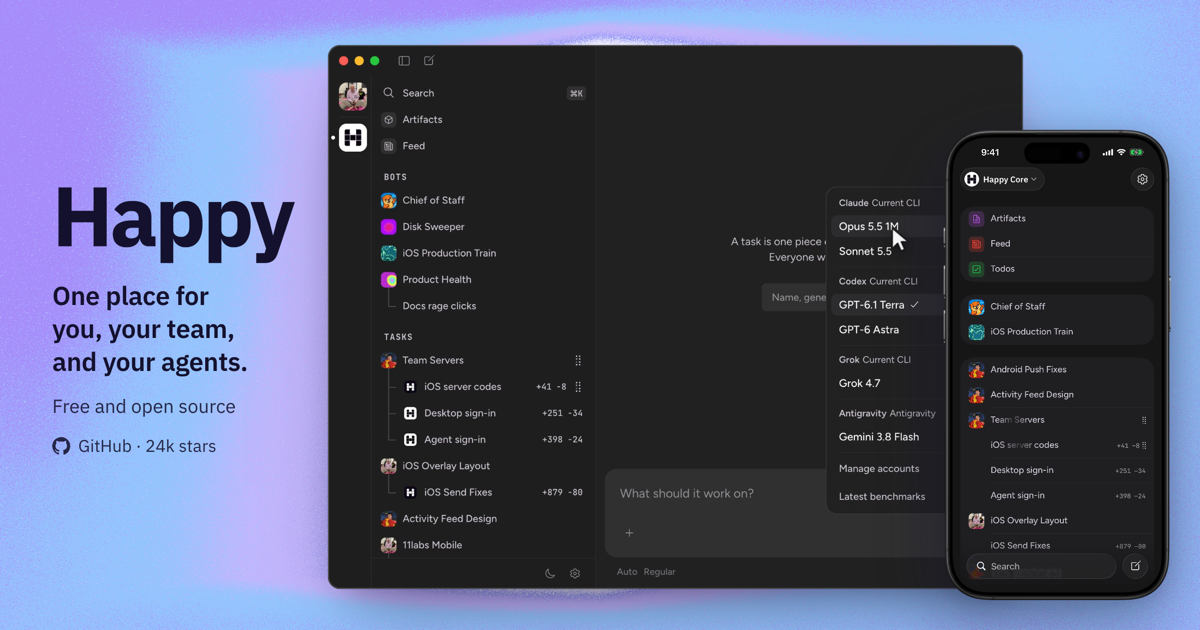
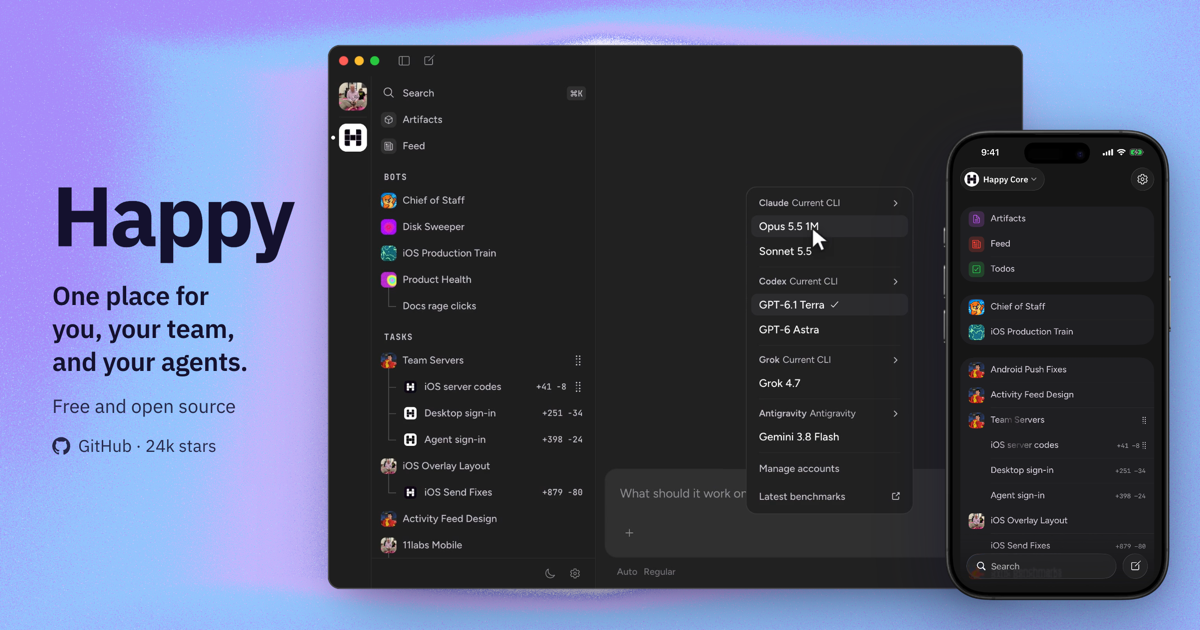
Move the link-preview card's model list left, clear of the phone
In ?preview=og only, HappyOneDemo draws the recorded model list again 80px
left over the empty chat, from the same movie clipped to the list.

diff --git a/src/happy-one-preview.css b/src/happy-one-preview.css
@@ -28,3 +28,14 @@ html:has(.happy-one[data-social-preview]) { scrollbar-gutter: auto; overflow: hi
 .happy-one[data-social-preview] .one-demo-still > img { object-position: left top; }
 .happy-one[data-social-preview] .one-demo-phone { left: 607px; top: 75px; bottom: auto; width: 244px; translate: none; transform: none; transition: none; filter: drop-shadow(0 24px 36px #14112e66) drop-shadow(0 6px 10px #14112e33); }
 .happy-one[data-social-preview] .one-demo video { pointer-events: none; }
+/* The model list is the card's subject, but the recording has it at the chat's right edge, under
+   the phone. The same movie, clipped to the list (498–665.5 × 141–469.5 of the 880px recording),
+   draws it again 80px to the left over the empty chat. Under it, the chat's own colour covers
+   where it was and the empty state's line and name field beside it, and the composer's colour
+   its top, up to the phone. The capture seeks this movie with the others. */
+.happy-one[data-social-preview] .one-social-picker { position: absolute; inset: 0; }
+.happy-one[data-social-preview] .one-social-picker::before,
+.happy-one[data-social-preview] .one-social-picker::after { content: ''; position: absolute; }
+.happy-one[data-social-preview] .one-social-picker::before { left: 395px; top: 140px; width: 226px; height: 284px; background: #212121; }
+.happy-one[data-social-preview] .one-social-picker::after { left: 497px; top: 424px; width: 124px; height: 48px; background: #303030; }
+.happy-one[data-social-preview] .one-social-picker > video { position: absolute; left: -80px; top: 0; width: 880px; height: 544px; z-index: 1; object-fit: fill; clip-path: inset(140.5px 214.5px 74.5px 498px round 10px); pointer-events: none; }

diff --git a/src/HappyOneDemo.tsx b/src/HappyOneDemo.tsx
@@ -40,9 +40,10 @@ const FRAME = '/video/happy-one/device/iphone-16-pro-black'
  * rests, and play over them from the same frame. A
  * phone movie on the same clock follows its play, pause, seek, and rate. The phone comes forward
  * for its part of the story, and drifts in as the page scrolls. `reach` is the line above the
- * demo the phone may grow up to when it comes forward on a phone.
+ * demo the phone may grow up to when it comes forward on a phone. The link-preview card asks for
+ * `picker`: the window's model list again, moved left over the empty chat (happy-one-preview.css).
  */
-export function HappyOneDemo({ reach }: { reach?: RefObject<HTMLElement | null> } = {}) {
+export function HappyOneDemo({ reach, picker = false }: { reach?: RefObject<HTMLElement | null>, picker?: boolean } = {}) {
   const take = DEMO_TAKE
   const figure = useRef<HTMLElement>(null)
   const stage = useRef<HTMLDivElement>(null)
@@ -281,6 +282,9 @@ export function HappyOneDemo({ reach }: { reach?: RefObject<HTMLElement | null> 
             {...videoProps} loop playsInline preload="none" aria-label={take.label}>
             <Sources movie={mac} />
           </video>
+          {picker && <span className="one-social-picker" aria-hidden="true">
+            <video width={mac.width} height={mac.height} muted playsInline preload="auto" tabIndex={-1}><Sources movie={mac} /></video>
+          </span>}
         </div>
         {/* The take's label describes both screens. */}
         <div ref={device} className="one-demo-phone" aria-hidden="true">

diff --git a/src/DesktopApp.tsx b/src/DesktopApp.tsx
@@ -287,7 +287,7 @@ export default function DesktopApp() {
                 <GithubMark /><span>GitHub · {HAPPY_ONE_GITHUB_STARS.compact} stars</span>
               </a>}
             </div>
-            <HappyOneDemo reach={note} />
+            <HappyOneDemo reach={note} picker={ogPreview} />
           </div>
           <DownloadOptions id="download" macArchitecture={macArchitecture} onMacArchitectureChange={setMacArchitecture} analyticsLocation="hero" />
           <FirstScreenDownloads id="download" />

diff --git a/docs/happy-one-demo.md b/docs/happy-one-demo.md
@@ -312,7 +312,10 @@ its line in semibold on three lines, “Free and open source”, and GitHub star
 on the right the team take 11 window, frozen at 3.2 seconds with the model list
 open and Opus hovered, cropped to the left 79% of the recording so the chat's
 empty right is gone, and the phone standing over that cut as in the hero, on the
-same clock. Behind them, the homepage's light palette in `CARD_SURFACE`:
+same clock. The model list, the card's subject, sits in the recording at the
+chat's right edge under the phone; the explicit `picker` mode of `HappyOneDemo`
+draws it again 80px to the left from a third copy of the window's movie, clipped
+to the list, over the chat's own colour (`.one-social-picker`). Behind them, the homepage's light palette in `CARD_SURFACE`:
 colour edge to edge, with none of the plain base left between bands, so no pale slivers show.
 
 1. Read the current public `https://api.github.com/repos/slopus/happy` response.
@@ -343,7 +346,9 @@ colour edge to edge, with none of the plain base left between bands, so no pale 
    **3.2 seconds** of team take 11: pause it, set `controls = false`, and set
    `currentTime = 3.2`. Reduced motion leaves the movie unloaded on its still;
    set `preload = 'auto'` and call `load()` before seeking, and seek the phone's
-   movie to the same time the same way. The model list is open with Opus hovered; at 2.8s the
+   movie and the `.one-social-picker video` to the same time the same way. Zoom
+   in on the list's edges at 2×: no letters or field edges of the chat may show
+   beside it. The model list is open with Opus hovered; at 2.8s the
    pointer is still on Codex. The menu is open from 0 to 4.22s (the pointer scans
    the list from 1.8s; Opus picked at 4.22s), so check the frame again whenever
    the take changes. Wait until it is paused, not seeking, decode-ready,
